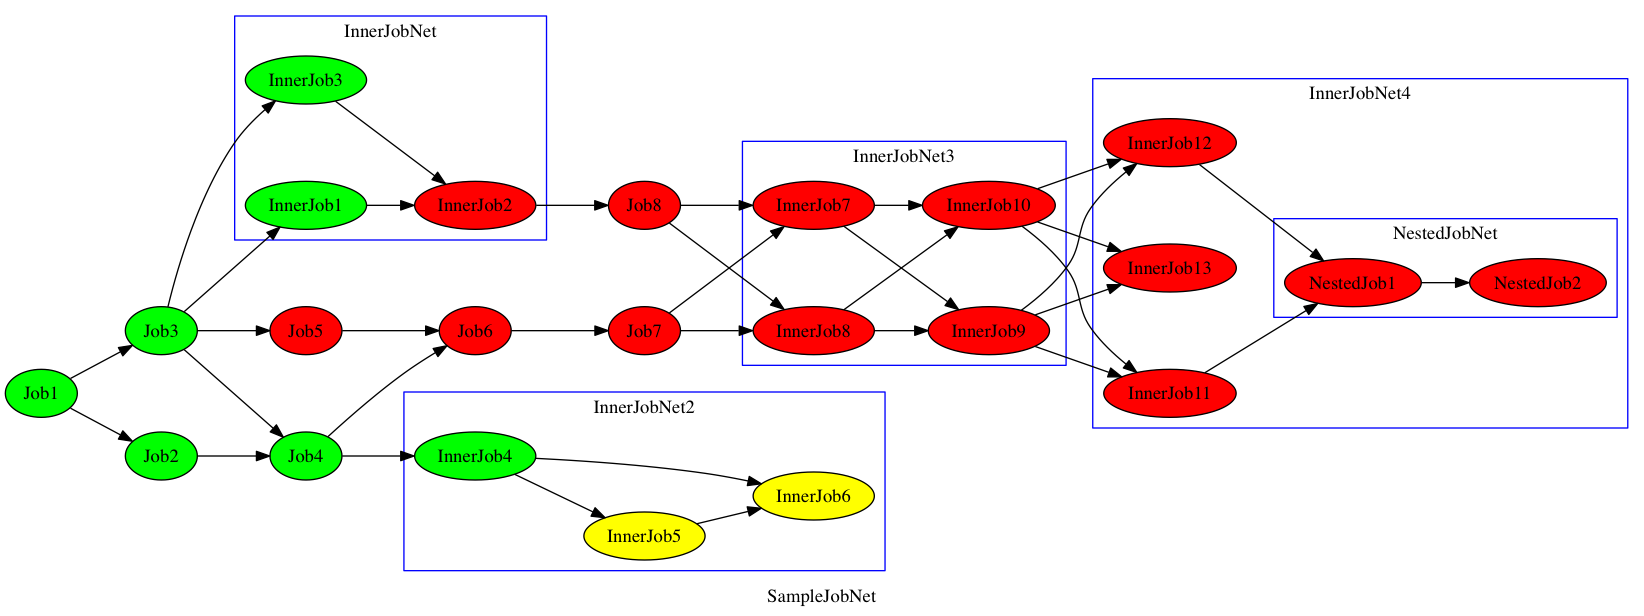
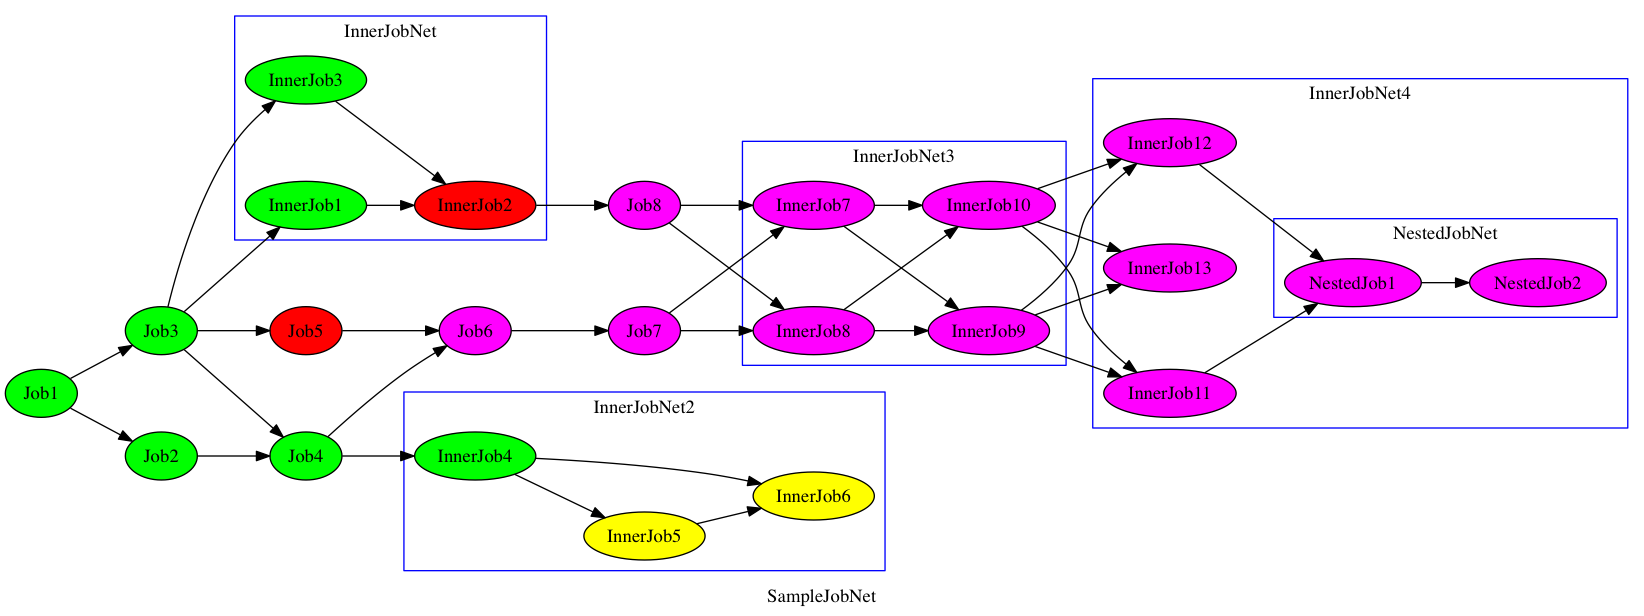
Add aborted status
which means dependent job failure aborts following jobs

diff --git a/lib/rukawa/job.rb b/lib/rukawa/job.rb
@@ -31,7 +31,7 @@ module Rukawa
 
       @dataflow = Concurrent.dataflow_with(Rukawa.executor, *depend_dataflows) do |*results|
         begin
-          raise DependentJobFailure unless results.all? { |r| !r.nil? }
+          check_dependencies(results)
 
           if skip? || results.any?(&:skipped?)
             Rukawa.logger.info("Skip #{self.class}")
@@ -45,7 +45,7 @@ module Rukawa
           end
         rescue => e
           Rukawa.logger.error("Error #{self.class} by #{e}")
-          set_state(:error)
+          set_state(:error) unless e.is_a?(DependentJobFailure)
           raise
         end
 
@@ -79,6 +79,13 @@ module Rukawa
       Concurrent.dataflow_with(Rukawa.executor, *depend_dataflows) do |*results|
         Rukawa.logger.info("Skip #{self.class}")
         @state
+      end
+    end
+
+    def check_dependencies(results)
+      unless results.all? { |r| !r.nil? }
+        set_state(:aborted)
+        raise DependentJobFailure
       end
     end
 

diff --git a/lib/rukawa/state.rb b/lib/rukawa/state.rb
@@ -1,6 +1,6 @@
 module Rukawa::State
   def self.get(name)
-    const_get(name.to_s.capitalize)
+    const_get(name.to_s.split("_").map(&:capitalize).join)
   end
 
   module BaseExt
@@ -16,7 +16,7 @@ module Rukawa::State
       other
     end
 
-    %i(running? skipped? bypassed? error? waiting? finished?).each do |sym|
+    %i(running? skipped? bypassed? error? aborted? waiting? finished?).each do |sym|
       define_method(sym) do
         false
       end
@@ -87,6 +87,34 @@ module Rukawa::State
     end
 
     def self.error?
+      true
+    end
+  end
+
+  module Aborted
+    extend BaseExt
+
+    def name
+      "aborted"
+    end
+
+    def self.color
+      :magenta
+    end
+
+    def self.merge(other)
+      if other == Running || other == Error
+        other
+      else
+        self
+      end
+    end
+
+    def self.error?
+      true
+    end
+
+    def self.aborted?
       true
     end
   end
